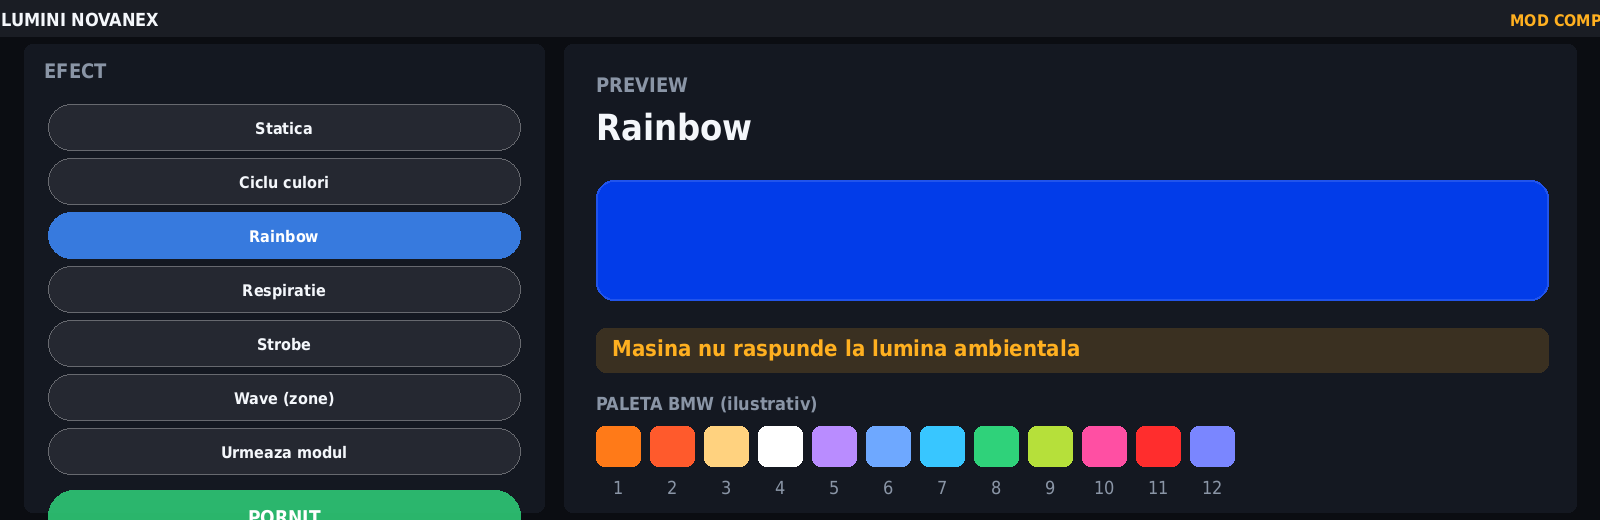
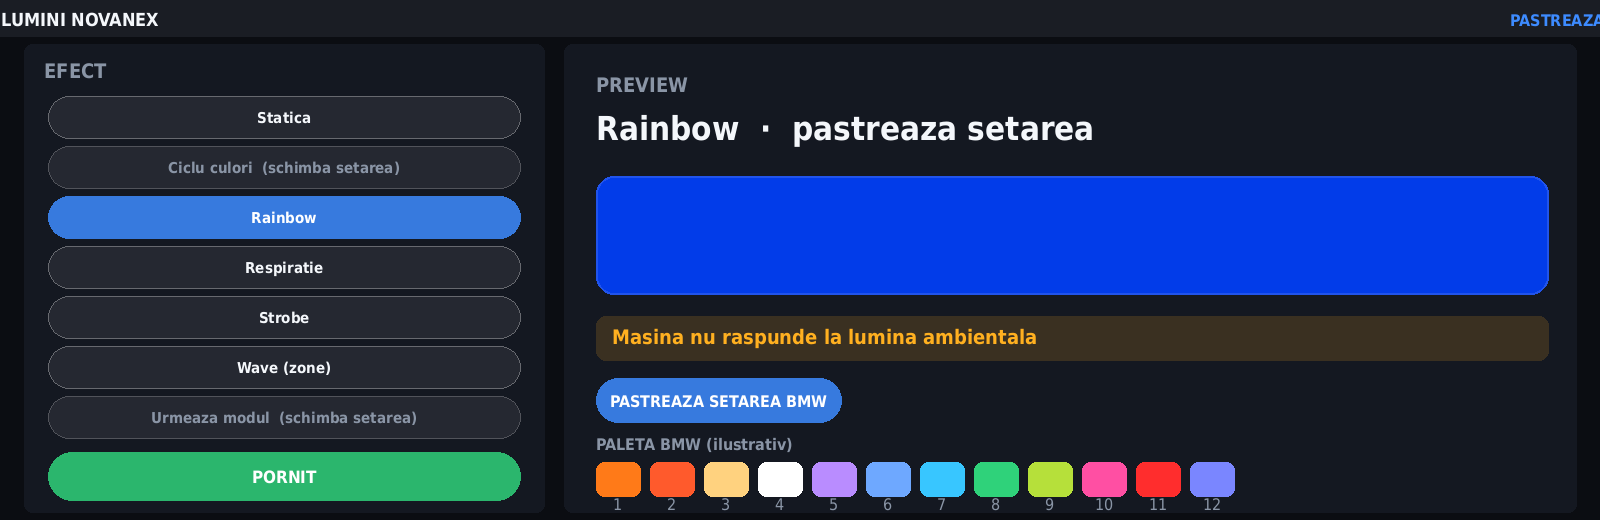
Keep the saved BMW colour: animate hue/brightness instead of the slot
New 'Pastreaza setarea BMW' mode (default): never writes the menu colour
slot, so the driver's chosen colour stays; effects drive the hue (colour),
brightness (breathe/strobe) or Individual zones (wave). 'Schimba setarea'
keeps the proven slot path. Driving the hue is unverified on the G20 and
flagged as such. Cycle and mode-follow are hidden in keep mode.

Claude-Session: https://claude.ai/code/session_01RVzjcVtygLQoAiTqN5VP42

diff --git a/apps/novanex_ambient/main.js b/apps/novanex_ambient/main.js
@@ -49,24 +49,27 @@ mgu.run({
 
         ui.onClick('BTN_ONOFF', () => { settings.set('on', settings.get('on') === false); return render(); });
 
-        /** The colour the preview should show for a frame, in the chosen engine mode. */
-        function previewColour(f, mode) {
+        /** The colour the preview should show for a frame. */
+        function previewColour(f) {
             if (!f) return null;
-            if (mode === 'full' && f.hue != null) return hueColour(f.hue);
+            if (f.hue != null) return hueColour(f.hue);
             if (f.slot != null) return SWATCH[(f.slot - 1) % 12];
             if (f.zones) { const z = f.zones.find((x) => x != null); return z != null ? hueColour(z) : null; }
-            return null;
+            return SWATCH[(Number(settings.get('colour')) || 1) - 1];   // breathe/strobe keep the base colour
         }
+
+        const keepOn = () => settings.get('keepSetting') !== false;
+        const runnable = (id) => (keepOn() ? ['cycle', 'mode'].indexOf(id) < 0 : true);
 
         function drawEffects(cv, t) {
             G.panel(cv, t, 24, 44, 520, 468, 'Efect');
-            const cur = settings.get('effect') || 'static', on = settings.get('on') !== false, full = settings.get('engine') === 'full';
+            const cur = settings.get('effect') || 'static', on = settings.get('on') !== false;
             EFFECTS.forEach(([id, name], i) => {
                 const y = 96 + i * 50;
-                const runnable = full || EFX.isSafe(id) || id === 'mode';
-                const label = name + (runnable ? '' : '  (mod Complet)');
+                const ok = runnable(id);
+                const label = name + (ok ? '' : '  (schimba setarea)');
                 G.button(cv, t, 48, y, 472, 42, label, () => { ambient.setEffect(id); return render(); },
-                    { primary: id === cur, busy: !runnable, key: 'fx-' + id });
+                    { primary: id === cur, busy: !ok, key: 'fx-' + id });
             });
             const y = 96 + EFFECTS.length * 50 + 6;
             G.button(cv, t, 48, y, 472, 48, on ? 'PORNIT' : 'OPRIT', () => { settings.set('on', !on); return render(); },
@@ -75,57 +78,60 @@ mgu.run({
 
         function drawPreview(cv, t) {
             G.panel(cv, t, 564, 44, 1012, 468, null);
-            const name = settings.get('effect') || 'static', on = settings.get('on') !== false;
-            const mode = settings.get('engine') === 'full' ? 'full' : 'safe';
+            const name = settings.get('effect') || 'static', on = settings.get('on') !== false, keep = keepOn();
             const nm = (EFFECTS.find((e) => e[0] === name) || [, name])[1];
             cv.text('PREVIEW', 596, 92, 22, t.dim, { font: 'bold', spacing: 2 });
-            cv.text(nm, 596, 140, 40, on ? t.text : t.dim, { font: 'bold' });
+            cv.text(nm + (keep ? '  ·  pastreaza setarea' : '  ·  schimba setarea'), 596, 140, 36, on ? t.text : t.dim, { font: 'bold' });
 
-            // the cabin strip: a rounded bar lit by the current frame (two zones for 'wave')
-            const bx = 596, by = 180, bw = 952, bh = 120;
+            // the cabin strip: a rounded bar lit by the current frame (zones for 'wave')
+            const bx = 596, by = 176, bw = 952, bh = 118;
             const tnow = Date.now();
             let f = null;
-            if (name === 'mode') f = { slot: ambient.slot() || 4 };
-            else { f = EFX.frame(name, tnow, cfg()); if (mode === 'safe') { f.hue = null; f.bright = null; f.zones = null; } }
-            const lit = on && (mode === 'full' || EFX.isSafe(name) || name === 'mode');
-            if (f && f.zones && mode === 'full') {
-                const n = f.zones.filter((x) => x != null).length || 3;
-                for (let z = 0; z < n; z++) {
-                    const col = hueColour(f.zones[z]); const seg = bw / n;
-                    cv.roundRect(bx + z * seg + 4, by, seg - 8, bh, 16, withAlpha(col, lit ? 0.9 : 0.15));
+            if (name === 'mode') f = keep ? null : { slot: ambient.slot() || 4, hue: null, bright: null, zones: null };
+            else {
+                f = EFX.frame(name, tnow, cfg());
+                if (f) {
+                    if (keep) { f.slot = null; if (name === 'breathe' || name === 'strobe') f.hue = null; }
+                    else { f.hue = null; f.zones = null; }
                 }
+            }
+            const ok = runnable(name), lit = on && ok && f;
+            if (f && f.zones) {
+                const n = f.zones.filter((x) => x != null).length || 3;
+                for (let z = 0; z < n; z++) { const seg = bw / n; cv.roundRect(bx + z * seg + 4, by, seg - 8, bh, 16, withAlpha(hueColour(f.zones[z]), lit ? 0.9 : 0.15)); }
             } else {
-                const col = previewColour(f, mode) || '#444a56';
-                const k = (mode === 'full' && f && f.bright != null) ? Math.max(0.12, f.bright / 254) : 0.9;
+                const col = previewColour(f) || '#444a56';
+                const k = (f && f.bright != null) ? Math.max(0.12, f.bright / 254) : 0.9;
                 cv.roundRect(bx, by, bw, bh, 18, withAlpha(col, lit ? k : 0.12));
             }
             cv.strokeRoundRect(bx, by, bw, bh, 18, 2, withAlpha('#ffffff', 0.12));
 
             // state line
-            let state;
-            if (!on) state = 'Oprit';
-            else if (!lit) state = 'Acest efect are nevoie de modul Complet';
-            else if (!ambient.available) state = 'Masina nu raspunde la lumina ambientala';
-            else if (ambient.error) state = 'Eroare la scriere: ' + ambient.error;
-            else state = 'Activ · scrie la masina';
-            const col = (!on || !lit) ? t.dim : (!ambient.available || ambient.error) ? t.warn : '#2fd27a';
-            cv.roundRect(bx, 328, bw, 44, 10, withAlpha(col, 0.16));
-            cv.text(state, bx + 16, 356, 24, col, { font: 'bold' });
+            let state, col;
+            if (!on) { state = 'Oprit'; col = t.dim; }
+            else if (!ok) { state = 'Acest efect schimba setarea: opreste "Pastreaza setarea BMW"'; col = t.warn; }
+            else if (!ambient.available) { state = 'Masina nu raspunde la lumina ambientala'; col = t.warn; }
+            else if (ambient.error) { state = 'Eroare la scriere: ' + ambient.error; col = t.warn; }
+            else { state = keep ? 'Activ · pastreaza setarea, schimba nuanta (experimental)' : 'Activ · schimba culoarea din setari'; col = '#2fd27a'; }
+            cv.roundRect(bx, 316, bw, 44, 10, withAlpha(col, 0.16));
+            cv.text(state, bx + 16, 344, 22, col, { font: 'bold' });
+
+            // the keep/set toggle
+            G.button(cv, t, bx, 378, 0, 44, keep ? 'PASTREAZA SETAREA BMW' : 'SCHIMBA SETAREA BMW',
+                () => { settings.set('keepSetting', !keep); return render(); }, { primary: keep, key: 'keep' });
 
             // swatches
-            cv.text('PALETA BMW (ilustrativ)', bx, 410, 20, t.dim, { font: 'bold', spacing: 1.5 });
-            for (let i = 0; i < 12; i++) {
-                const x = bx + i * 54;
-                cv.roundRect(x, 426, 44, 40, 8, SWATCH[i]);
-                cv.text(String(i + 1), x + 22, 494, 20, t.dim, { align: 'center' });
-            }
+            cv.text('PALETA BMW (ilustrativ)', bx, 450, 18, t.dim, { font: 'bold', spacing: 1.5 });
+            for (let i = 0; i < 12; i++) { const x = bx + i * 54; cv.roundRect(x, 462, 44, 34, 8, SWATCH[i]); cv.text(String(i + 1), x + 22, 510, 18, t.dim, { align: 'center' }); }
         }
 
         function cfg() {
             const pal = String(settings.get('palette') || '').split(',').map(Number).filter((n) => n >= 1 && n <= 12);
+            const colour = Number(settings.get('colour')) || 1;
             return {
                 periodMs: Math.max(400, (Number(settings.get('speed')) || 4) * 1000),
-                slot: Number(settings.get('colour')) || 1,
+                slot: colour,
+                hue: Math.round(((colour - 1) / 12) * 4095),
                 palette: pal.length ? pal : null,
                 brightMin: Number(settings.get('brightMin')) || 0,
                 brightMax: Number(settings.get('brightMax')) != null ? Number(settings.get('brightMax')) : 254,
@@ -138,8 +144,8 @@ mgu.run({
             const t = ctx.theme(), cv = ctx.canvas(W, H).clear(t.bg);
             drawEffects(cv, t);
             drawPreview(cv, t);
-            const warn = settings.get('engine') === 'full' ? { text: 'MOD COMPLET', color: t.warn } : null;
-            G.frame(cv, t, ['Lumini NOVANEX'], 0, [warn]);
+            const badge = keepOn() ? { text: 'PASTREAZA SETAREA', color: t.accent } : { text: 'SCHIMBA SETAREA', color: t.warn };
+            G.frame(cv, t, ['Lumini NOVANEX'], 0, [badge]);
             return ui.image('MAIN_GFX', cv);
         }
 

diff --git a/apps/novanex_ambient/ambient.js b/apps/novanex_ambient/ambient.js
@@ -51,12 +51,19 @@ function modeOf(raw) {
 /**
  * Build the struct. A frame from effects.js says what to change; everything else is left as it is with
  * the "leave" sentinels the stock app uses (hue 4095, layers 255, brightness 255, modes unfilled).
+ *
+ * keep = true: never touch the saved menu colour (controlMenu stays UNFILLED), so the car keeps the
+ *              colour the driver chose in BMW's menu; the effect changes only the hue / brightness /
+ *              zones that are shown. This is what "keep my setting, just animate the colour" needs -
+ *              but driving the hue field is UNVERIFIED on a G20 (the car may ignore it).
+ * keep = false: the effect may select a palette slot (controlMenu = FARBAUSWAHL_n). That is the proven
+ *               path, but it changes the colour selected in BMW's own menu.
  */
-function request(frame, mode) {
-    const slot = frame.slot;
-    const hue = mode === 'full' && frame.hue != null ? frame.hue : null;
-    const bright = mode === 'full' && frame.bright != null ? frame.bright : null;
-    const zones = mode === 'full' && frame.zones ? frame.zones : null;
+function request(frame, keep) {
+    const slot = keep ? null : frame.slot;
+    const hue = frame.hue != null ? frame.hue : null;
+    const bright = frame.bright != null ? frame.bright : null;
+    const zones = frame.zones ? frame.zones : null;
     return {
         controlMenuAmbientePanoramicRoofInteriorLighting: slot != null ? 'FARBAUSWAHL_' + slot : UNFILLED,
         controlModeAmbientePanoramicRoofInteriorLighting: UNFILLED,
@@ -71,8 +78,8 @@ function request(frame, mode) {
 }
 
 /** A short signature so we never re-send an identical frame. */
-function sig(frame, mode) {
-    const r = request(frame, mode);
+function sig(frame, keep) {
+    const r = request(frame, keep);
     return [r.controlMenuAmbientePanoramicRoofInteriorLighting, r.controlHueInteriorLighting, r.controlBrightnessValueBrightnessOffsetAmbientePanoramicRoofInteriorLighting,
         r.controlHueValueLayer1IndividualGroup, r.controlHueValueLayer2IndividualGroup, r.controlHueValueLayer3IndividualGroup].join('|');
 }
@@ -101,10 +108,19 @@ class Ambient extends EventEmitter {
     own() { return this._own; }
     mode() { return this._mode; }
     effect() { return this.settings.get('effect') || 'static'; }
-    engineMode() { return this.settings.get('engine') === 'full' ? 'full' : 'safe'; }
+    /** keep = don't change the saved BMW colour; animate the hue/brightness instead (default). */
+    keepSetting() { return this.settings.get('keepSetting') !== false; }
     running() { return this.settings.get('on') !== false && this.effect() !== 'off'; }
-    /** An effect the current engine mode can actually run. */
-    effectRunnable(name) { return this.engineMode() === 'full' || EFX.isSafe(name); }
+    /**
+     * Can this effect run in the current mode?
+     *   keep mode : effects that change colour by SLOT only (cycle, mode-follow) can't run - they would
+     *               have to change the saved setting. Everything that drives hue/brightness/zones can.
+     *   set mode  : everything runs (colour by slot is allowed).
+     */
+    effectRunnable(name) {
+        if (!this.keepSetting()) return true;
+        return ['cycle', 'mode'].indexOf(name) < 0;
+    }
 
     async start() {
         const light = await this.signals.watch(LIGHT, '1', { statusAmbientLightInteriorColour: (v) => this._status(v) }, this.log);
@@ -133,14 +149,15 @@ class Ambient extends EventEmitter {
         this.emit('change');
     }
 
-    /** Effect config from settings. */
+    /** Effect config from settings. In keep mode the chosen colour 1..12 becomes a hue. */
     cfg() {
         const s = this.settings;
         const pal = String(s.get('palette') || '').split(',').map((x) => Number(x)).filter((n) => n >= 1 && n <= SLOTS);
+        const colour = Number(s.get('colour')) || 1;
         return {
             periodMs: Math.max(400, (Number(s.get('speed')) || 4) * 1000),
-            slot: Number(s.get('colour')) || 1,
-            hue: Number(s.get('hue')),
+            slot: colour,
+            hue: Math.round(((colour - 1) / SLOTS) * EFX.HUE_MAX),   // the base colour as a hue, for keep mode
             palette: pal.length ? pal : null,
             brightMin: Number(s.get('brightMin')) || 0,
             brightMax: Number(s.get('brightMax')) != null ? Number(s.get('brightMax')) : 254,
@@ -149,20 +166,30 @@ class Ambient extends EventEmitter {
         };
     }
 
-    /** The slot/frame to show right now. */
+    /** The frame to show right now. */
     _frame() {
         const name = this.effect();
-        if (name === 'mode') {                               // follow the driving mode
+        const keep = this.keepSetting();
+        if (name === 'mode') {                               // follow the driving mode (changes the slot)
+            if (keep) return null;
             const key = this._mode && MODE_SLOT[this._mode];
             const n = key ? Number(this.settings.get(key)) || 0 : 0;
             if (n >= 1 && n <= SLOTS) return { slot: n, hue: null, bright: null, zones: null };
             if (this._own) return { slot: this._own, hue: null, bright: null, zones: null };
             return null;
         }
-        if (!this.effectRunnable(name)) return null;         // unproven effect blocked in safe mode
+        if (!this.effectRunnable(name)) return null;
         const f = EFX.frame(name, this.now() - this._t0, this.cfg());
         if (!f) return null;
-        if (this.engineMode() === 'safe') { f.hue = null; f.bright = null; f.zones = null; }  // slots only
+        if (keep) {
+            // keep the saved colour: never a slot. Colour effects use hue; brightness effects
+            // (breathe/strobe) leave the hue alone so the car keeps showing the chosen colour.
+            f.slot = null;
+            if (['breathe', 'strobe'].indexOf(name) >= 0) f.hue = null;
+        } else {
+            // change the setting by slot: colour comes from the slot, not the hue/zones
+            f.hue = null; f.zones = null;
+        }
         return f;
     }
 
@@ -182,12 +209,12 @@ class Ambient extends EventEmitter {
         if (!this.running()) return;
         const f = this._frame();
         if (!f) return;
-        const mode = this.engineMode();
-        const s = sig(f, mode);
+        const keep = this.keepSetting();
+        const s = sig(f, keep);
         // nothing new to send, unless the car drifted to a different slot (someone changed it by hand)
         const drifted = f.slot != null && this._slot != null && this._slot !== f.slot;
         if (s === this._lastSig && !drifted) return;
-        this._want = { f, mode, s };
+        this._want = { f, keep, s };
         this._drain();
     }
 
@@ -195,13 +222,13 @@ class Ambient extends EventEmitter {
         if (this._busy || !this._want) return;
         const wait = this._last + MIN_GAP_MS - this.now();
         if (wait > 0) { if (!this._gap) this._gap = setTimeout(() => { this._gap = null; this._drain(); }, wait); return; }
-        const { f, mode, s } = this._want;
+        const { f, keep, s } = this._want;
         this._want = null;
         if (!this._proxy) { this.log.warn('ambient: the car\'s ambient light does not answer'); return; }
         this._busy = true;
         this._last = this.now();
         this._lastSig = s;
-        Promise.resolve().then(() => this.signals.set(this._proxy, 'ambientLightInteriorColour', request(f, mode)))
+        Promise.resolve().then(() => this.signals.set(this._proxy, 'ambientLightInteriorColour', request(f, keep)))
             .then(() => { this.error = null; }, (e) => { this.error = String(e && e.message || e); this.log.warn('ambient set: ' + this.error); })
             .then(() => { this._busy = false; this.emit('change'); this._drain(); });
     }

diff --git a/tools/novanex_ambient/test_ambient.js b/tools/novanex_ambient/test_ambient.js
@@ -6,7 +6,7 @@ const path = require('path');
 const { Ambient, request, MODE_SLOT } = require(path.join(__dirname, '..', '..', 'apps', 'novanex_ambient', 'ambient.js'));
 
 function harness(initial) {
-    const store = Object.assign({ on: true, engine: 'safe', effect: 'static', colour: 3, speed: 4, gapMs: 400 }, initial);
+    const store = Object.assign({ on: true, keepSetting: false, effect: 'static', colour: 3, speed: 4, gapMs: 400 }, initial);
     const writes = [];
     let now = 1000;
     const settings = { get: (k) => store[k], set: (k, v) => { store[k] = v; } };
@@ -22,8 +22,8 @@ function harness(initial) {
 const flush = () => new Promise((r) => setImmediate(r));
 
 const tests = [
-    ['safe mode writes a slot and never a hue/brightness', async () => {
-        const h = harness({ effect: 'static', colour: 5 });
+    ['set mode writes the chosen slot and leaves hue/brightness alone', async () => {
+        const h = harness({ keepSetting: false, effect: 'static', colour: 5 });
         await h.a.start(); await flush(); await flush();
         assert(h.writes.length >= 1, 'no write');
         const w = h.writes[h.writes.length - 1];
@@ -31,18 +31,34 @@ const tests = [
         assert.strictEqual(w.controlHueInteriorLighting, 4095, 'hue left alone');
         assert.strictEqual(w.controlBrightnessValueBrightnessOffsetAmbientePanoramicRoofInteriorLighting, 255, 'brightness left alone');
     }],
-    ['safe mode refuses to run breathe (needs brightness)', async () => {
-        const h = harness({ effect: 'breathe', colour: 2 });
-        await h.a.start(); await flush();
-        assert.strictEqual(h.writes.length, 0, 'breathe wrote in safe mode: ' + JSON.stringify(h.writes));
-        assert.strictEqual(h.a.effectRunnable('breathe'), false);
+    ['keep mode NEVER writes the menu slot (the saved colour stays)', async () => {
+        for (const fx of ['static', 'rainbow', 'breathe', 'strobe', 'wave']) {
+            const h = harness({ keepSetting: true, effect: fx, colour: 1, speed: 4, brightMin: 10, brightMax: 200 });
+            await h.a.start(); await flush(); await flush();
+            for (const w of h.writes) assert.strictEqual(w.controlMenuAmbientePanoramicRoofInteriorLighting, 'SIGNAL_UNBEFUELLT', fx + ' changed the saved slot');
+        }
     }],
-    ['full mode breathe writes a brightness', async () => {
-        const h = harness({ engine: 'full', effect: 'breathe', colour: 2, speed: 4, brightMin: 10, brightMax: 200 });
+    ['keep mode blocks cycle and mode-follow (they change the setting)', async () => {
+        const h = harness({ keepSetting: true, effect: 'cycle', palette: '1,2,3' });
         await h.a.start(); await flush();
+        assert.strictEqual(h.writes.length, 0, 'cycle wrote in keep mode');
+        assert.strictEqual(h.a.effectRunnable('cycle'), false);
+        assert.strictEqual(h.a.effectRunnable('mode'), false);
+        assert.strictEqual(h.a.effectRunnable('rainbow'), true);
+    }],
+    ['keep-mode rainbow writes a hue, not a slot', async () => {
+        const h = harness({ keepSetting: true, effect: 'rainbow', speed: 4 });
+        h.clock.set(1000); await h.a.start(); h.clock.adv(1000); h.a._writeNow(); await flush();
         const w = h.writes[h.writes.length - 1];
+        assert.strictEqual(w.controlMenuAmbientePanoramicRoofInteriorLighting, 'SIGNAL_UNBEFUELLT');
+        assert.notStrictEqual(w.controlHueInteriorLighting, 4095, 'no hue written');
+    }],
+    ['keep-mode breathe keeps the colour (no hue) and pulses brightness', async () => {
+        const h = harness({ keepSetting: true, effect: 'breathe', colour: 2, speed: 4, brightMin: 10, brightMax: 200 });
+        h.clock.set(1000); await h.a.start(); h.clock.adv(2000); h.a._writeNow(); await flush();
+        const w = h.writes[h.writes.length - 1];
+        assert.strictEqual(w.controlHueInteriorLighting, 4095, 'breathe must not change the hue');
         assert(w.controlBrightnessValueBrightnessOffsetAmbientePanoramicRoofInteriorLighting <= 254, 'no brightness written');
-        assert.notStrictEqual(w.controlBrightnessValueBrightnessOffsetAmbientePanoramicRoofInteriorLighting, 255);
     }],
     ['identical frame is not re-sent', async () => {
         const h = harness({ effect: 'static', colour: 4 });
@@ -62,7 +78,7 @@ const tests = [
         assert.strictEqual(MODE_SLOT.comfort, 'comfortSlot');
     }],
     ['the rate floor stops back-to-back writes', async () => {
-        const h = harness({ effect: 'cycle', palette: '1,2,3', speed: 3, gapMs: 250 });
+        const h = harness({ keepSetting: false, effect: 'cycle', palette: '1,2,3', speed: 3, gapMs: 250 });
         await h.a.start(); await flush();
         const n0 = h.writes.length;
         // hammer many writes within the same instant: the floor should allow at most one
@@ -70,14 +86,19 @@ const tests = [
         await flush();
         assert(h.writes.length - n0 <= 1, 'rate floor breached: ' + (h.writes.length - n0) + ' writes at one instant');
     }],
-    ['request() leaves untouched fields at their sentinels', () => {
-        const r = request({ slot: 9, hue: null, bright: null, zones: null }, 'safe');
+    ['request() in set mode names the slot and leaves the rest at sentinels', () => {
+        const r = request({ slot: 9, hue: null, bright: null, zones: null }, false);
         assert.strictEqual(r.controlMenuAmbientePanoramicRoofInteriorLighting, 'FARBAUSWAHL_9');
         assert.strictEqual(r.controlModeAmbientePanoramicRoofInteriorLighting, 'SIGNAL_UNBEFUELLT');
         assert.strictEqual(r.controlHueValueLayer1IndividualGroup, 255);
     }],
-    ['full-mode wave writes zone hues', () => {
-        const r = request({ slot: null, hue: null, bright: null, zones: [10, 120, 230] }, 'full');
+    ['request() in keep mode drops the slot even if the frame has one', () => {
+        const r = request({ slot: 9, hue: 2000, bright: null, zones: null }, true);
+        assert.strictEqual(r.controlMenuAmbientePanoramicRoofInteriorLighting, 'SIGNAL_UNBEFUELLT');
+        assert.strictEqual(r.controlHueInteriorLighting, 2000);
+    }],
+    ['wave writes zone hues', () => {
+        const r = request({ slot: null, hue: null, bright: null, zones: [10, 120, 230] }, true);
         assert.strictEqual(r.controlHueValueLayer1IndividualGroup, 10);
         assert.strictEqual(r.controlHueValueLayer2IndividualGroup, 120);
         assert.strictEqual(r.controlHueValueLayer3IndividualGroup, 230);
